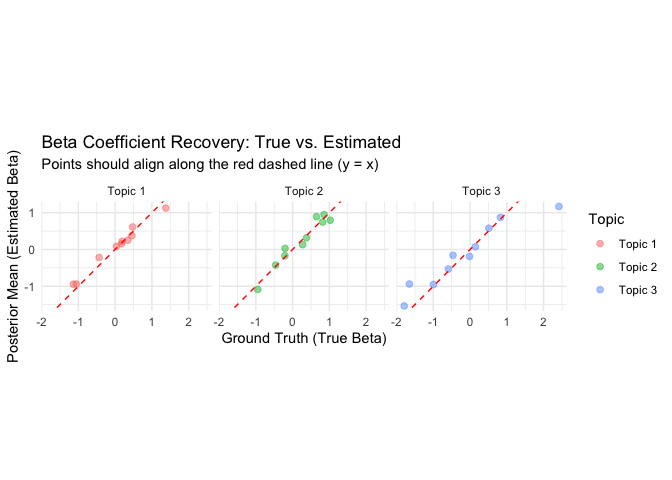
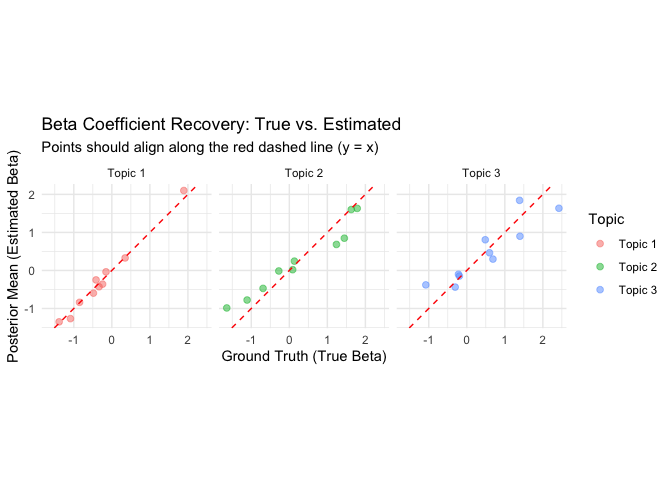
update README

diff --git a/README.md b/README.md
@@ -18,6 +18,17 @@ You can install the development version of MRDLTM from GitHub:
 ``` r
 # install.packages("devtools")
 devtools::install_github("kyohashi/MRDLTM")
+#> 
+#> ── R CMD build ─────────────────────────────────────────────────────────────────
+#>      checking for file ‘/private/var/folders/8p/zs5z191d32j_7f9m7t86sn5h0000gn/T/RtmpprBbug/remotesc69430f2a8d6/kyohashi-MRDLTM-e8c58ed/DESCRIPTION’ ...  ✔  checking for file ‘/private/var/folders/8p/zs5z191d32j_7f9m7t86sn5h0000gn/T/RtmpprBbug/remotesc69430f2a8d6/kyohashi-MRDLTM-e8c58ed/DESCRIPTION’
+#>   ─  preparing ‘MRDLTM’:
+#>      checking DESCRIPTION meta-information ...  ✔  checking DESCRIPTION meta-information
+#>   ─  cleaning src
+#>   ─  checking for LF line-endings in source and make files and shell scripts
+#>   ─  checking for empty or unneeded directories
+#>   ─  building ‘MRDLTM_0.0.0.9000.tar.gz’
+#>      
+#> 
 ```
 
 ## Quick Start: Synthetic Data Experiment
@@ -33,7 +44,7 @@ We generate a synthetic dataset.
 library(MRDLTM)
 library(bayesplot)
 library(tidyverse)
-set.seed(123)
+set.seed(42)
 
 n_topic = 3
 toy = generate_toy_data(
@@ -42,7 +53,7 @@ toy = generate_toy_data(
 )
 
 cat("Observed Purchase Rate:", mean(toy$observations$data$y), "\n")
-#> Observed Purchase Rate: 0.5715769
+#> Observed Purchase Rate: 0.5912692
 ```
 
 ### 2. Model Estimation
@@ -62,7 +73,7 @@ timer = system.time({
 #> Starting Gibbs Sampling: 10000 iterations (burn-in: 5000)
 
 cat(sprintf("Total Elapsed Time: %.2f minutes\n", timer["elapsed"] / 60))
-#> Total Elapsed Time: 1.47 minutes
+#> Total Elapsed Time: 1.57 minutes
 ```
 
 Handle the label-switching issue.
@@ -70,11 +81,13 @@ Handle the label-switching issue.
 ``` r
 # cope with the label-switching
 res_fixed = reorder_mrdltm(res, burnin = burnin)
+#> Preparing detection inputs...
+#> Running PRA algorithm...
 #> 
 #>     ......................................................................................
 #>     . Method                         Time (sec)           Status                         . 
 #>     ......................................................................................
-#>     . PRA                            0.02                 OK                             . 
+#>     . PRA                            0.021                OK                             . 
 #>     ......................................................................................
 #> 
 #>     Relabelling all methods according to method PRA ... done!
@@ -83,7 +96,8 @@ res_fixed = reorder_mrdltm(res, burnin = burnin)
 #>     Retrieve the 1 best clusterings: [...]$clusters
 #>     Retrieve the 1 CPU times: [...]$timings
 #>     Retrieve the 1 X 1 similarity matrix: [...]$similarity
-#>     Label switching finished. Total time: 10.4 seconds.
+#>     Label switching finished. Total time: 10.7 seconds. 
+#> Applying corrections to all parameters...
 ```
 
 ## Diagnostics and Recovery
@@ -121,7 +135,7 @@ for (z_est in 1:n_topic) {
   mapping[z_est] = which.min(mses)
 }
 cat("Topic Mapping (Estimated -> True):", paste(1:n_topic, "->", mapping, collapse = ", "), "\n")
-#> Topic Mapping (Estimated -> True): 1 -> 3, 2 -> 1, 3 -> 2
+#> Topic Mapping (Estimated -> True): 1 -> 1, 2 -> 2, 3 -> 3
 
 # Prepare data for Beta Grid Plot
 plot_data_beta = map_dfr(1:n_var, function(v) {
